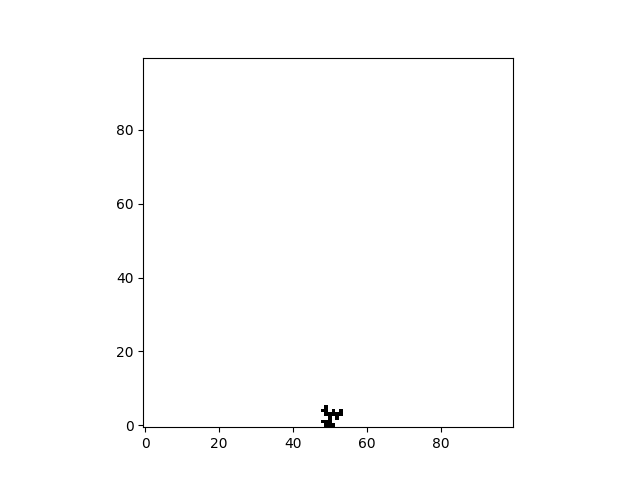
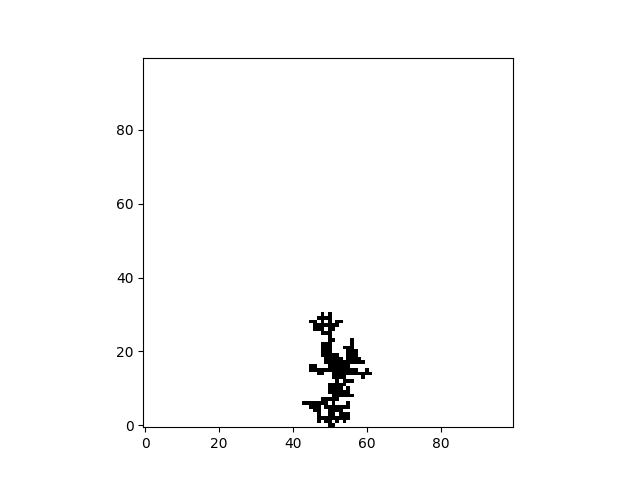
had the wrong figures, needed to rerun

Changed region(s): [[0.4688, 0.6562, 0.5938, 0.9062]]

diff --git a/Assignment2/assignment_2_2.py b/Assignment2/assignment_2_2.py
@@ -94,7 +94,7 @@ def run_2_2():
         cluster_init = np.zeros((Nx,Ny), dtype=bool)
         mid = int(Nx / 2)
         cluster_init[0, mid] = 1
-        cluster, cluster_over_time, num_cluster = mc_DLA(cluster_init, 15000, ps, False)
+        cluster, cluster_over_time, num_cluster = mc_DLA(cluster_init, 50000, ps, False)
         plt.imshow(cluster, origin='lower', cmap='binary')
         plt.savefig(f"Figures/2.2/run_ps={ps}.png")
         plt.close()
